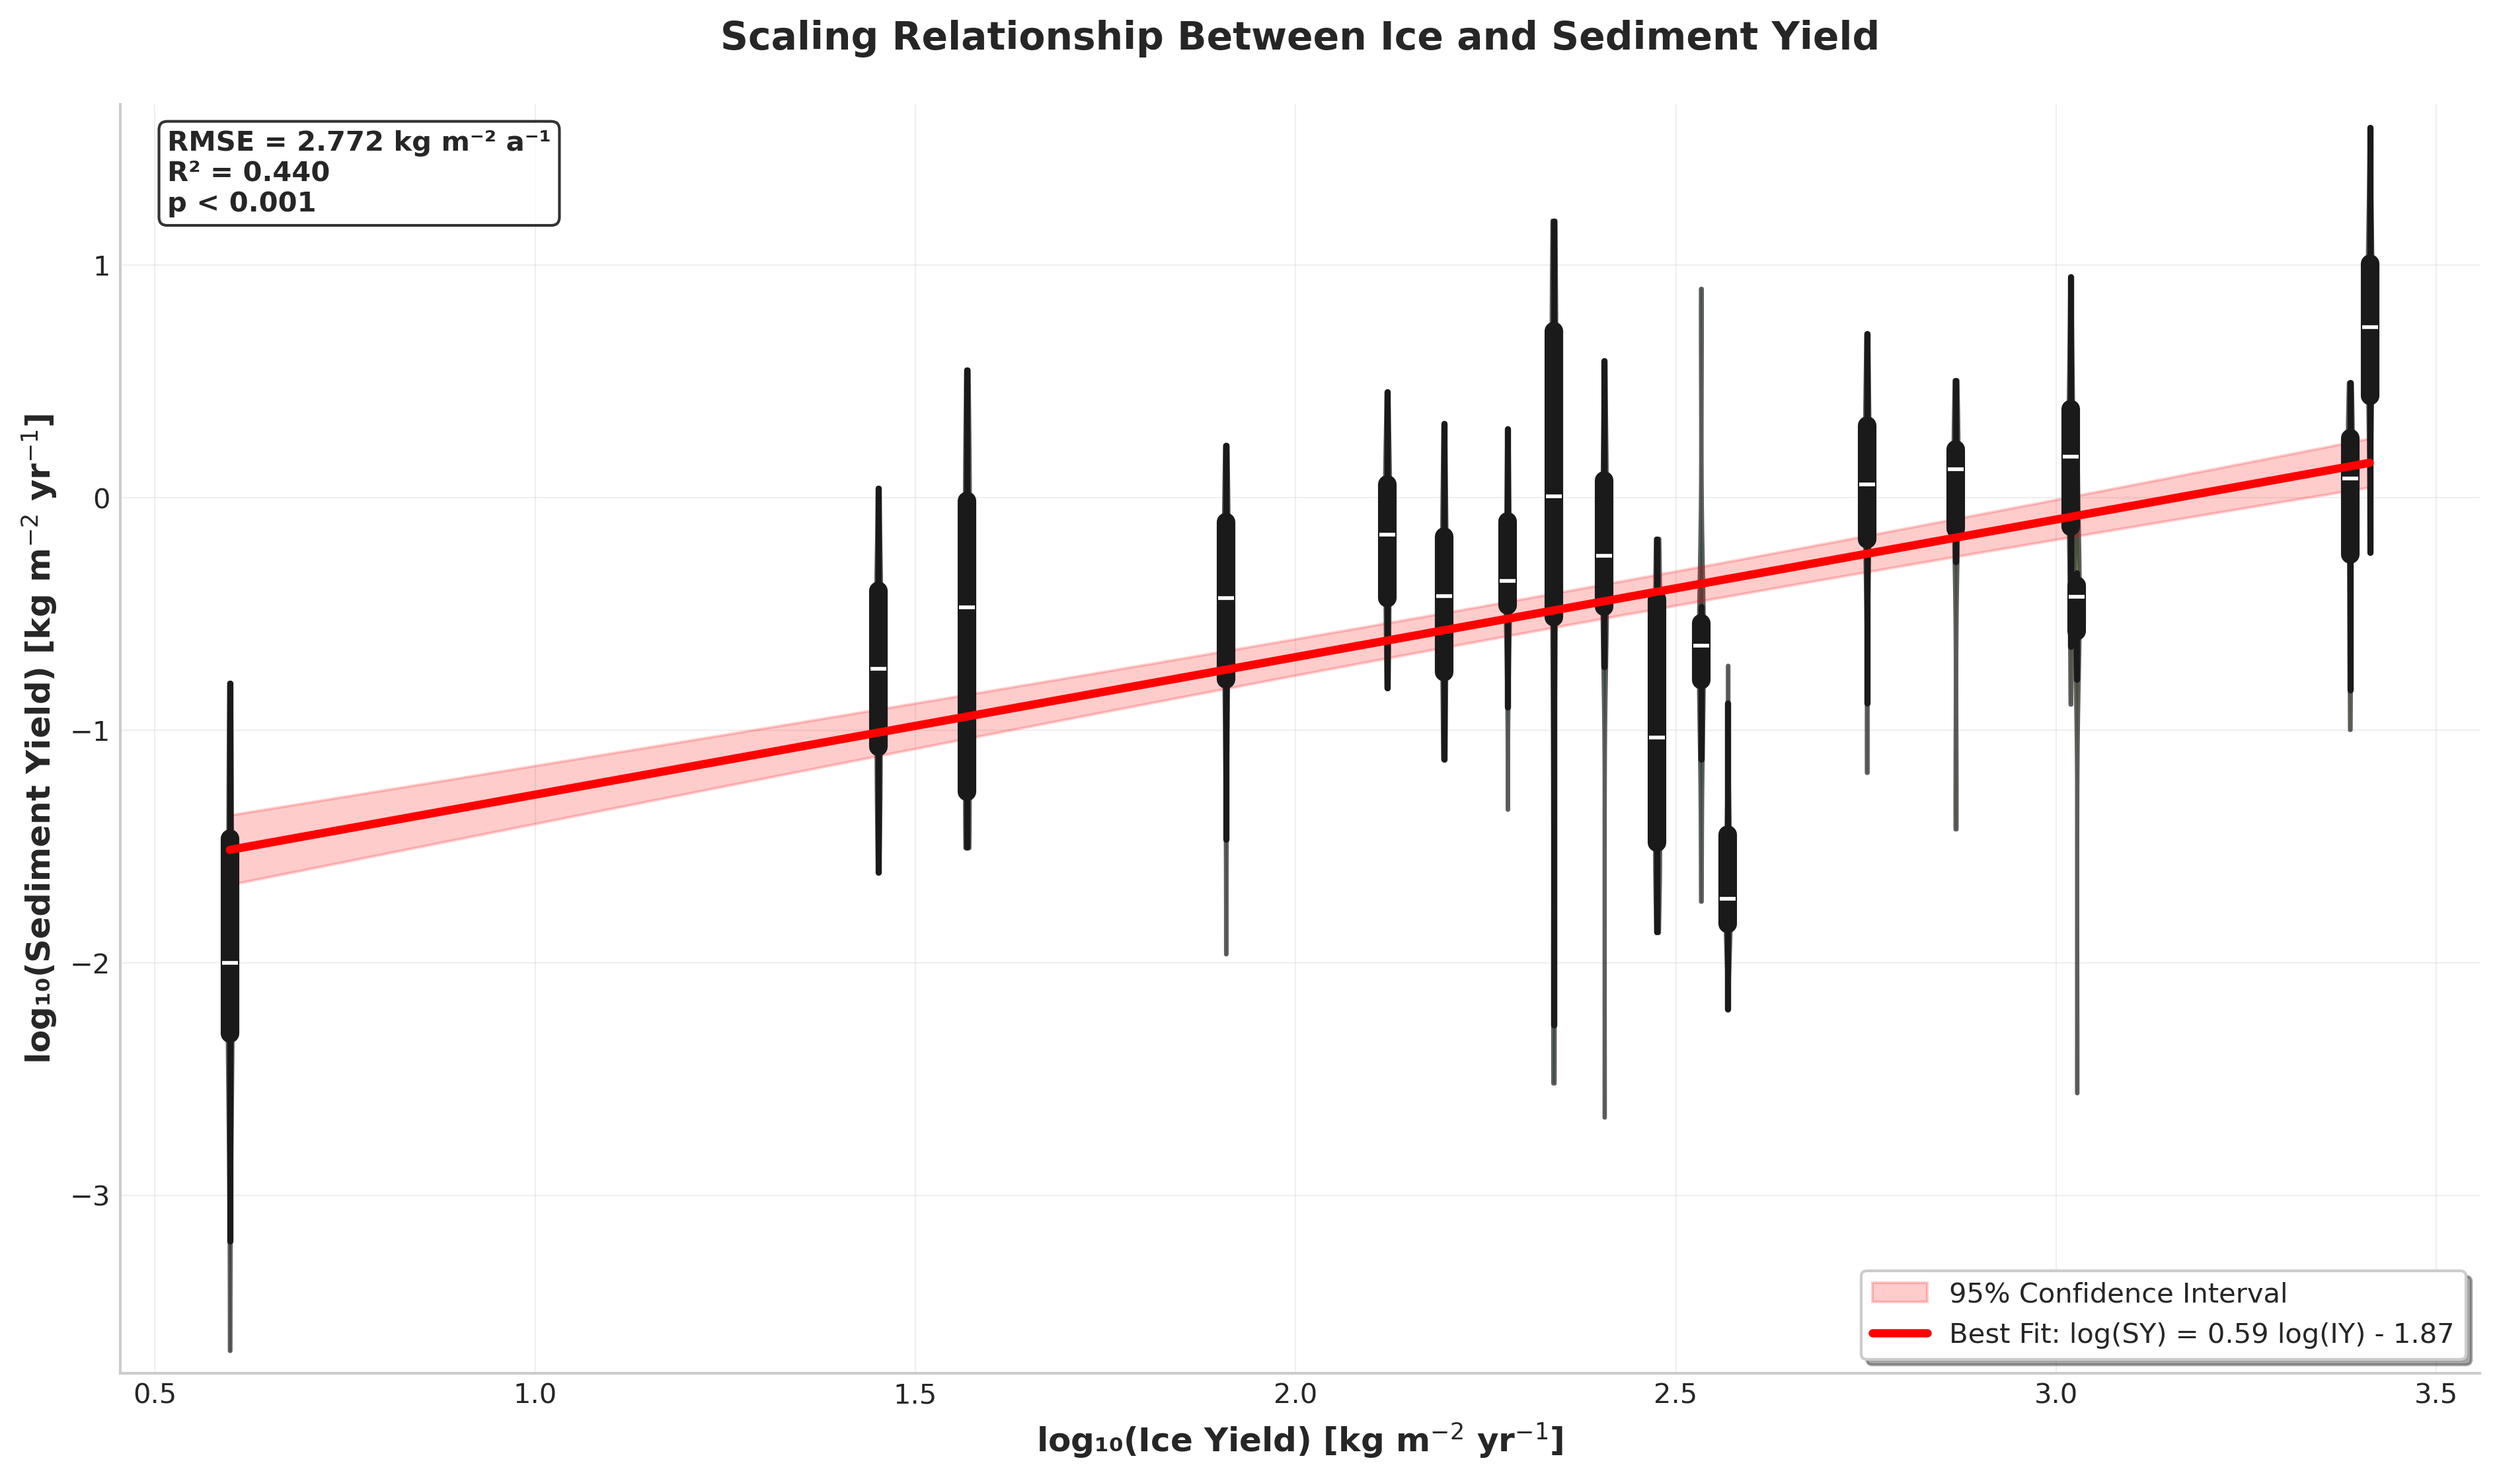
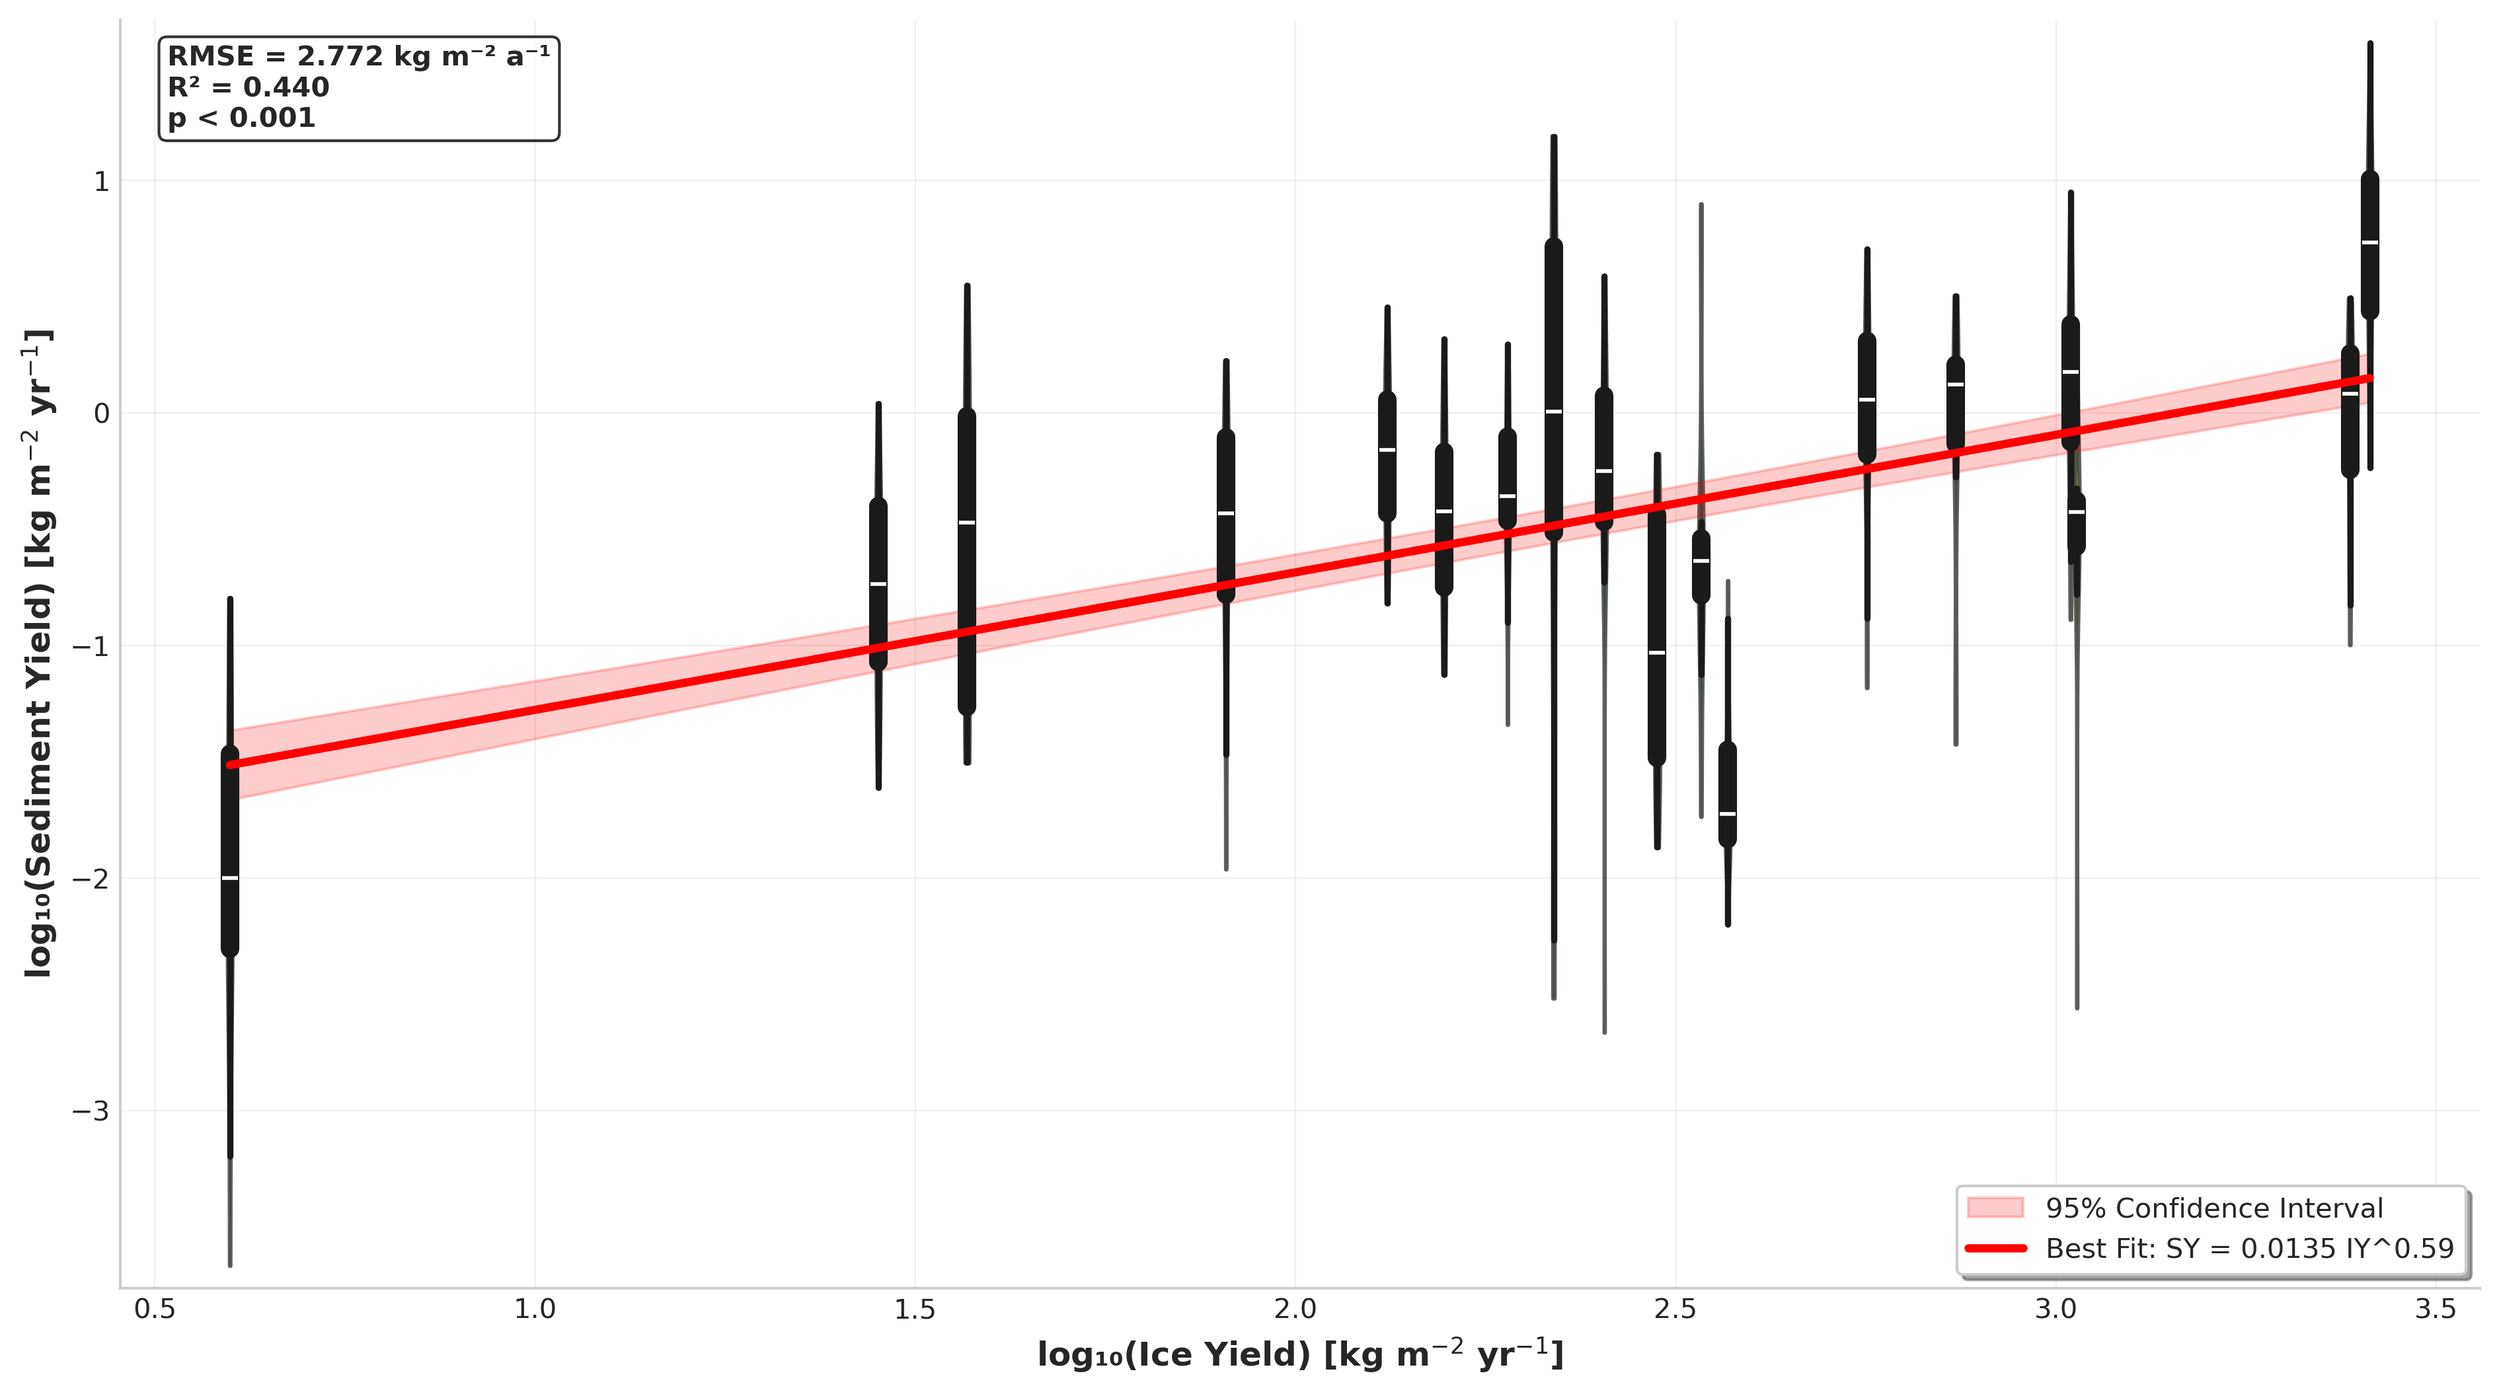
Update full catchment figures

diff --git a/output/plot_catchments.py b/output/plot_catchments.py
@@ -1,0 +1,197 @@
+"""Plot fringe or dispersed thickness for every catchment in different regions."""
+
+import pickle
+import numpy as np
+import matplotlib.pyplot as plt
+import matplotlib.colors
+import matplotlib.collections
+import matplotlib.patches
+from pathlib import Path
+import seaborn as sns
+from matplotlib.colors import LogNorm
+import cmcrameri.cm as cmc
+import argparse
+import geopandas as gpd
+
+# Region mapping from the codebase
+regions = {
+    'rolige-brae': 'CE',
+    'sermeq-avannarleq': 'CW',
+    'charcot-gletscher': 'CE',
+    'sydbrae': 'CE',
+    'kangiata-nunaata-sermia': 'SW',
+    'eielson-gletsjer': 'CE',
+    'narsap-sermia': 'SW',
+    'kangilernata-sermia': 'CW',
+    'dode-brae': 'CE',
+    'daugaard-jensen-gletsjer': 'CE',
+    'vestfjord-gletsjer': 'CE',
+    'sermeq-kullajeq': 'CW',
+    'bredegletsjer': 'CE',
+    'magga-dan-gletsjer': 'CE',
+    'graah-gletscher': 'CE',
+    'akullersuup-sermia': 'SW',
+    'eqip-sermia': 'CW',
+    'kista-dan-gletsjer': 'CE'
+}
+
+# Region names for plotting
+region_names = {
+    'SW': 'Nuup Kangerlua',
+    'CW': 'Ikerasak', 
+    'CE': 'Kangertittivaq'
+}
+
+def plot_field(grid, array, ax, norm=None, set_clim=None, cmap='viridis'):
+    """Plot a field on a triangle mesh grid."""
+    values = grid.map_mean_of_patch_nodes_to_patch(array)
+    
+    coords = []
+    for patch in range(grid.number_of_patches):
+        nodes = []
+        for node in grid.nodes_at_patch[patch]:
+            nodes.append([grid.node_x[node], grid.node_y[node]])
+        coords.append(nodes)
+    
+    import shapely
+    hulls = [shapely.get_coordinates(shapely.Polygon(i).convex_hull) for i in coords]
+    polys = [plt.Polygon(shp) for shp in hulls]
+    
+    if norm is None:
+        norm = matplotlib.colors.Normalize(vmin=np.min(array), vmax=np.max(array))
+    
+    collection = matplotlib.collections.PatchCollection(polys, cmap=cmap, norm=norm, edgecolors='none')
+    collection.set_array(values)
+    
+    if set_clim is not None:
+        collection.set_clim(**set_clim)
+    
+    im = ax.add_collection(collection)
+    ax.autoscale()
+    
+    return im
+
+def load_sediment_results(catchment_name):
+    """Load sediment model results for a catchment."""
+    checkpoint_path = Path(f"ird_model/models/checkpoints/sediment/{catchment_name}.pickle")
+    
+    if not checkpoint_path.exists():
+        print(f"Warning: No checkpoint found for {catchment_name}")
+        return None
+    
+    with open(checkpoint_path, 'rb') as f:
+        grid = pickle.load(f)
+    
+    return grid
+
+def plot_region_thickness(region_code, thickness_type='fringe'):
+    """Plot thickness (fringe or dispersed) for all catchments in a region."""
+    # Get catchments for this region
+    region_catchments = [name for name, reg in regions.items() if reg == region_code]
+    
+    if not region_catchments:
+        print(f"No catchments found for region {region_code}")
+        return
+    
+    print(f"Plotting {len(region_catchments)} catchments for region {region_code} - {thickness_type} thickness")
+    
+    # Set up the plot
+    fig, ax = plt.subplots(figsize=(12, 8))
+    
+    # Plot each catchment
+    for catchment in region_catchments:
+        grid = load_sediment_results(catchment)
+        if grid is None:
+            continue
+            
+        # Get thickness data based on type
+        if thickness_type == 'fringe':
+            thickness_data = grid.at_node['fringe_thickness']
+            field_name = 'fringe_thickness'
+        elif thickness_type == 'dispersed':
+            thickness_data = grid.at_node['dispersed_thickness']
+            field_name = 'dispersed_thickness'
+        else:
+            raise ValueError(f"Unknown thickness type: {thickness_type}")
+        
+        # Apply percentile cutoff to avoid extreme outliers
+        thickness_pct99 = np.percentile(thickness_data, 99)
+        thickness_clipped = np.where(thickness_data > thickness_pct99, thickness_pct99, thickness_data)
+        
+        # Choose colormap based on thickness type
+        # Using complementary colormaps that work well together in figures
+        if thickness_type == 'fringe':
+            cmap = cmc.batlow  # Cool blue-green
+        elif thickness_type == 'dispersed':
+            cmap = cmc.vik  # Warm yellow-orange-red
+        else:
+            cmap = cmc.batlow
+        
+        # Plot the field
+        im = plot_field(
+            grid, 
+            thickness_clipped, 
+            ax, 
+            cmap=cmap, 
+            norm=LogNorm(vmin=1e-3, vmax=5)
+        )
+        
+        # Add catchment boundary outline
+        try:
+            shapefile_path = f"data/shapefiles/{catchment}.geojson"
+            if Path(shapefile_path).exists():
+                gdf = gpd.read_file(shapefile_path)
+                gdf.boundary.plot(ax=ax, color='white', linewidth=0.5)
+        except Exception as e:
+            print(f"Warning: Could not load boundary for {catchment}: {e}")
+    
+    # Add colorbar
+    cbar = plt.colorbar(im, ax=ax)
+    cbar.set_label(f'{thickness_type.title()} thickness (m)', fontsize=14)
+    
+    # Set labels and title
+    ax.set_xlabel('Grid x (m)', fontsize=12)
+    ax.set_ylabel('Grid y (m)', fontsize=12)
+    ax.set_title(f'{region_names[region_code]} - {thickness_type.title()} thickness', fontsize=16)
+    
+    # Add scale bar
+    if region_code == 'CE':
+        ax.plot([3e5, 4e5], [-2.15e6, -2.15e6], color='black', linewidth=2)
+        ax.text(3.5e5, -2.14e6, '100 km', fontsize=12, ha='center', va='center', color='black')
+    elif region_code == 'CW':
+        ax.plot([1e5, 2e5], [-2.18e6, -2.18e6], color='black', linewidth=2)
+        ax.text(1.5e5, -2.17e6, '100 km', fontsize=12, ha='center', va='center', color='black')
+    elif region_code == 'SW':
+        ax.plot([-2.5e5, -1.5e5], [-2.9e6, -2.9e6], color='black', linewidth=2)
+        ax.text(-2e5, -2.89e6, '100 km', fontsize=12, ha='center', va='center', color='black')
+    
+    # Save the plot
+    output_path = f"figures/{thickness_type}/{region_names[region_code]}-{thickness_type}-thickness.png"
+    Path(output_path).parent.mkdir(parents=True, exist_ok=True)
+    plt.tight_layout()
+    plt.savefig(output_path, dpi=300, bbox_inches='tight')
+    plt.show()
+    
+    print(f"Saved plot to {output_path}")
+
+def main():
+    """Main function to plot thickness for all regions."""
+    # Parse command line arguments
+    parser = argparse.ArgumentParser(description='Plot fringe or dispersed thickness for catchments in different regions')
+    parser.add_argument('--type', choices=['fringe', 'dispersed'], default='fringe',
+                        help='Type of thickness to plot (default: fringe)')
+    parser.add_argument('--regions', nargs='+', choices=['SW', 'CW', 'CE'], default=['SW', 'CW', 'CE'],
+                        help='Regions to plot (default: all regions)')
+    
+    args = parser.parse_args()
+    
+    # Set up plotting style
+    sns.set_theme(style="white")
+    plt.rcParams['axes.prop_cycle'] = plt.cycler(color=sns.color_palette('flare'))
+    
+    # Plot for each specified region
+    for region_code in args.regions:
+        plot_region_thickness(region_code, args.type)
+
+if __name__ == "__main__":
+    main()

diff --git a/output/plot_uncertainty.py b/output/plot_uncertainty.py
@@ -117,7 +117,7 @@ y_upper = y_fit + critical_value * se_fit
 ax.fill_between(x_range, y_lower, y_upper, alpha=0.2, color='red', label='95% Confidence Interval')
 
 # Plot best fit line
-ax.plot(x_range, y_fit, 'r-', linewidth=3, label=f'Best Fit: log(SY) = {fit.slope:.2f} log(IY) - {-fit.intercept:.2f}')
+ax.plot(x_range, y_fit, 'r-', linewidth=3, label=f'Best Fit: SY = {10**fit.intercept:.4f} IY^{fit.slope:.2f}')
 
 # Add statistics text box
 stats_text = f'RMSE = {rmse:.3f} kg m⁻² a⁻¹\nR² = {R2:.3f}\np < 0.001'
@@ -128,8 +128,6 @@ ax.text(0.02, 0.98, stats_text, transform=ax.transAxes,
 # Professional axis labels with units
 ax.set_xlabel('log₁₀(Ice Yield) [kg m$^{-2}$ yr$^{-1}$]', fontsize=12, fontweight='bold')
 ax.set_ylabel('log₁₀(Sediment Yield) [kg m$^{-2}$ yr$^{-1}$]', fontsize=12, fontweight='bold')
-ax.set_title('Scaling Relationship Between Ice and Sediment Yield', 
-             fontsize=14, fontweight='bold', pad=20)
 
 # Improve legend - position it to avoid conflict with statistics box
 ax.legend(loc='lower right', frameon=True, fancybox=True, shadow=True)
